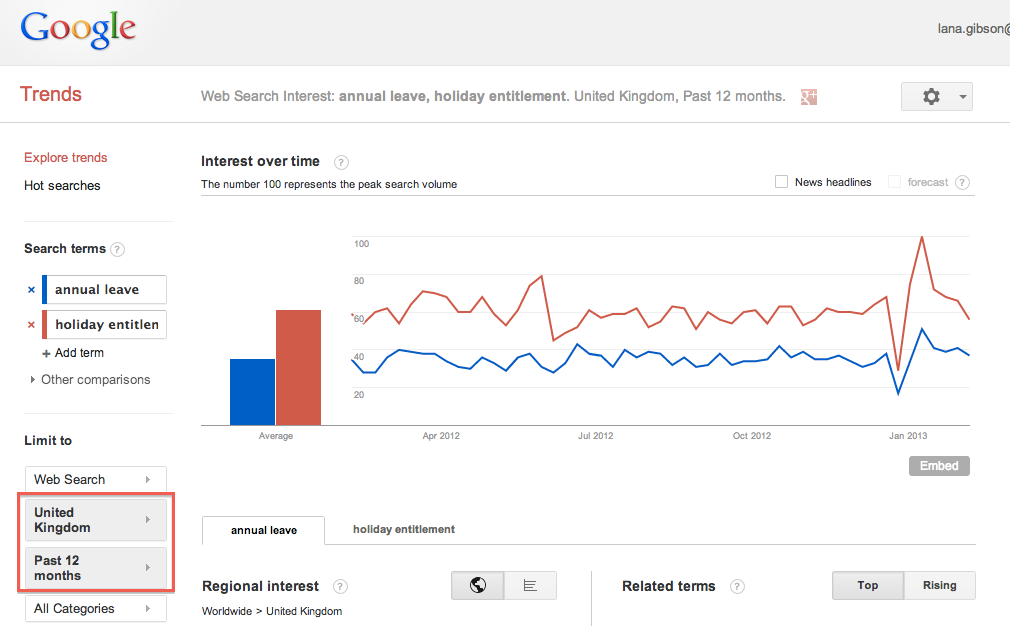
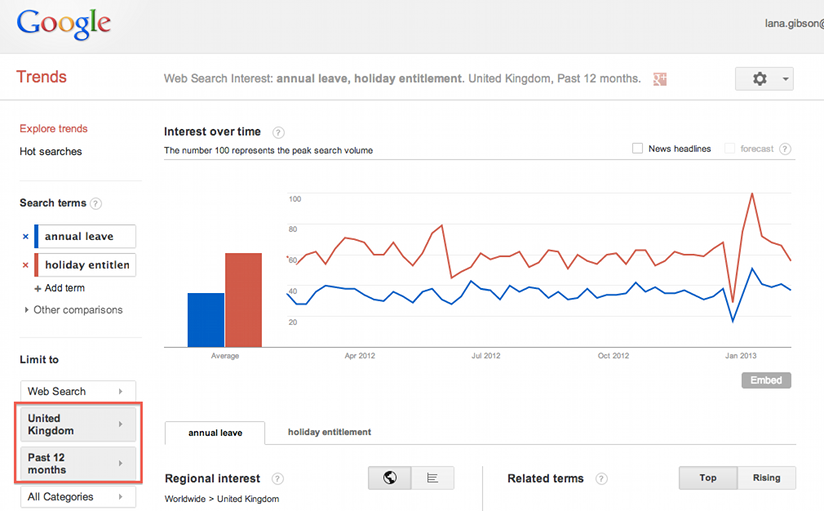
Re-size images to fit grid and make responsive

diff --git a/app/assets/stylesheets/main.css.scss b/app/assets/stylesheets/main.css.scss
@@ -506,7 +506,9 @@ html {
     }
   }
 
-
+  .image-container img {
+    width: 100%;
+  }
 }
 
 
